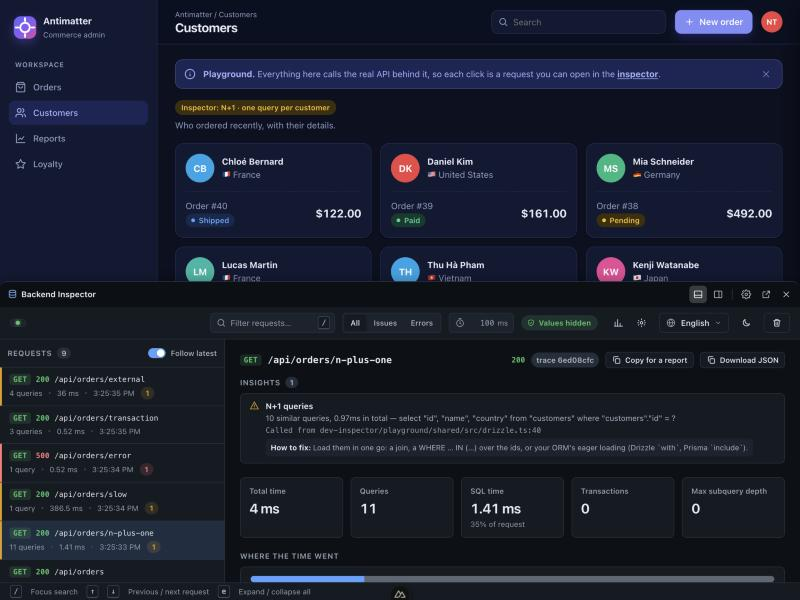
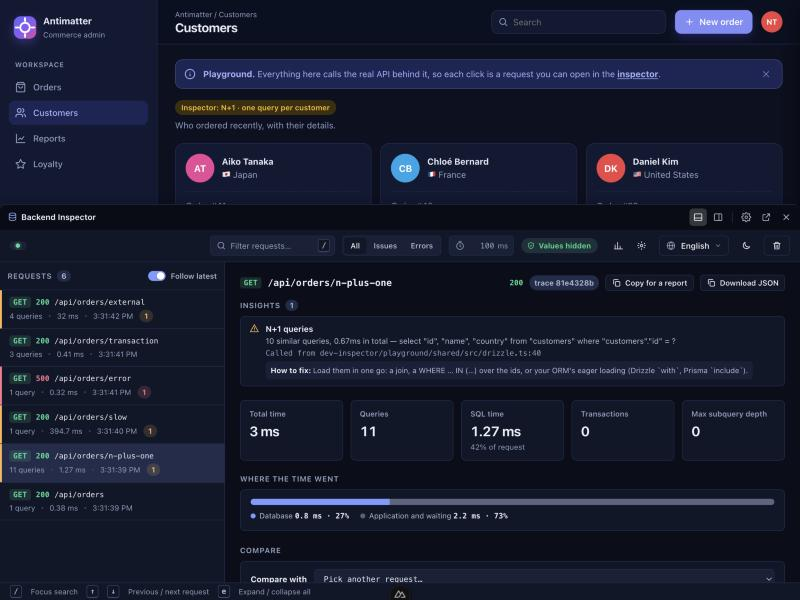
feat(ui): richer dark theme and matching recordings
A deeper navy base with clearer layers, a periwinkle accent and
brighter green, amber and rose status colours, in the page and in the
floating panel. The amber badge in the panel now has dark text.
Screenshots and recordings are recaptured with it.

diff --git a/packages/sql-dev-inspector/src/client/widget.ts b/packages/sql-dev-inspector/src/client/widget.ts
@@ -90,7 +90,7 @@ function loadSettings(win: Window): WidgetSettings {
 }
 
 const TOKENS_LIGHT = `--surface:#fff;--surface-2:#f1f4f8;--border:#dfe5ec;--text:#121821;--text-2:#4a5666;--text-3:#6e7a8a;--accent:#1f6feb;--err:#cf222e;--bar:#101820;--bar-text:#e9eef4;--shadow:0 10px 30px rgba(15,23,42,.28);`
-const TOKENS_DARK = `--surface:#151b23;--surface-2:#1d2631;--border:#2b3544;--text:#e6edf3;--text-2:#aab5c3;--text-3:#7d8896;--accent:#5aa2ff;--err:#ff6b6b;--bar:#0b1016;--bar-text:#e6edf3;--shadow:0 10px 30px rgba(0,0,0,.6);`
+const TOKENS_DARK = `--surface:#111729;--surface-2:#182038;--border:#222d4a;--text:#eef2fb;--text-2:#b6c1d9;--text-3:#92a0bd;--accent:#7c9cff;--err:#ff7a90;--bar:#080b16;--bar-text:#eef2fb;--shadow:0 10px 30px rgba(2,5,15,.65);`
 
 const STYLE = `
 :host { all: initial; position: fixed; top: 0; left: 0; width: 0; height: 0; display: block; z-index: 2147483000; }
@@ -106,10 +106,10 @@ const STYLE = `
 .fab { position: fixed; display: inline-flex; align-items: center; gap: 8px; height: 38px; padding: 0 14px 0 12px; border-radius: 999px; background: var(--bar); color: var(--bar-text); border: 1px solid rgba(255,255,255,.12); box-shadow: var(--shadow); font-weight: 650; font-size: 12.5px; user-select: none; touch-action: none; pointer-events: auto; transition: transform .12s ease, box-shadow .12s ease; }
 .fab:hover { transform: translateY(-1px); }
 .fab:active { transform: translateY(0); }
-.fab svg { color: #7fb3ff; }
+.fab svg { color: #8fabff; }
 .badge { min-width: 20px; height: 20px; padding: 0 6px; border-radius: 10px; background: rgba(255,255,255,.16); font-size: 11px; font-weight: 700; text-align: center; line-height: 20px; font-variant-numeric: tabular-nums; }
 .badge:empty { display: none; }
-.badge.warn { background: #d99a06; color: #fff; } .badge.err { background: #e5484d; color: #fff; }
+.badge.warn { background: #ffb84d; color: #1a1200; } .badge.err { background: #e5484d; color: #fff; }
 
 .panel { position: fixed; display: none; flex-direction: column; background: var(--surface); box-shadow: var(--shadow); pointer-events: auto; overflow: hidden; }
 .panel.open { display: flex; }
@@ -121,7 +121,7 @@ const STYLE = `
 .grip:hover { background: color-mix(in srgb, var(--accent) 40%, transparent); }
 .bar { display: flex; align-items: center; gap: 4px; height: 40px; padding: 0 8px 0 12px; background: var(--bar); color: var(--bar-text); flex: none; }
 .bar .title { font-weight: 650; font-size: 13px; margin-left: 2px; }
-.bar .logo { color: #7fb3ff; display: inline-flex; }
+.bar .logo { color: #8fabff; display: inline-flex; }
 .bar .spacer { flex: 1; }
 .tool { display: inline-flex; align-items: center; justify-content: center; width: 28px; height: 28px; border-radius: 6px; color: #b9c4d0; }
 .tool:hover { background: rgba(255,255,255,.12); color: #fff; }

diff --git a/packages/sql-dev-inspector/src/ui/styles.ts b/packages/sql-dev-inspector/src/ui/styles.ts
@@ -6,16 +6,17 @@
  */
 
 const DARK = `
-  --bg: #0d1117; --surface: #151b23; --surface-2: #1b232d; --surface-3: #242e3a;
-  --border: #283241; --border-strong: #3a4757;
-  --text: #e6edf3; --text-2: #aab5c3; --text-3: #929eac;
-  --accent: #5aa2ff; --accent-weak: rgba(90, 162, 255, .14); --accent-text: #0d1117;
-  --ok: #4ac26b; --ok-weak: rgba(74, 194, 107, .14);
-  --warn: #e3a008; --warn-weak: rgba(227, 160, 8, .14);
-  --err: #ff7b7b; --err-weak: rgba(255, 107, 107, .15);
-  --shadow: 0 8px 24px rgba(0, 0, 0, .45);
-  --syn-kw: #c792ea; --syn-str: #8bd49c; --syn-num: #f2a65e; --syn-id: #7cb7ff; --syn-fn: #e6c07b; --syn-com: #7d8896;
+  --bg: #0a0e1a; --surface: #111729; --surface-2: #182038; --surface-3: #212c4a;
+  --border: #222d4a; --border-strong: #364366;
+  --text: #eef2fb; --text-2: #b6c1d9; --text-3: #92a0bd;
+  --accent: #7c9cff; --accent-weak: rgba(124, 156, 255, .16); --accent-text: #0a0e1a;
+  --ok: #3ddc97; --ok-weak: rgba(61, 220, 151, .14);
+  --warn: #ffb84d; --warn-weak: rgba(255, 184, 77, .15);
+  --err: #ff7a90; --err-weak: rgba(255, 122, 144, .16);
+  --shadow: 0 10px 30px rgba(2, 5, 15, .6);
+  --syn-kw: #c4a1ff; --syn-str: #7ee2b8; --syn-num: #ffb36b; --syn-id: #8cc2ff; --syn-fn: #ffd479; --syn-com: #7a88a6;
 `
+
 
 export const STYLES = `
 :root {

diff --git a/packages/backend-dev-inspector/README.md b/packages/backend-dev-inspector/README.md
@@ -24,7 +24,7 @@ When a client calls your API, `backend-dev-inspector` shows **what the server di
 You see it in three places: **a tree in your terminal**, **a page** at `/__sql-inspector/`, and **a panel inside your app**. In production it does nothing.
 
 <p align="center">
-  <img alt="The Customers screen of the demo app, with the inspector's floating button showing 11 calls and a warning" src="https://raw.githubusercontent.com/githubthinnd/backend-dev-inspector/main/docs/media/nuxt-customers.jpg" width="49%">
+  <img alt="The Customers screen of the demo app, with the inspector's floating button and its count of warnings" src="https://raw.githubusercontent.com/githubthinnd/backend-dev-inspector/main/docs/media/nuxt-customers.jpg" width="49%">
   <img alt="The inspector panel docked at the bottom of the app: the N+1 warning first, with the line of code and how to fix it, then the totals and where the time went" src="https://raw.githubusercontent.com/githubthinnd/backend-dev-inspector/main/docs/media/inspector-n-plus-one.jpg" width="49%">
 </p>
 <p align="center">

diff --git a/README.md b/README.md
@@ -44,7 +44,7 @@ A slow endpoint is rarely one slow query. It is the same query run forty times, 
 - **Dev only**: nothing runs when `NODE_ENV=production`. Nothing is written to disk or sent anywhere unless you ask for it.
 
 <p align="center">
-  <img alt="The Customers screen of the demo app, with the inspector's floating button showing 11 calls and a warning" src="docs/media/nuxt-customers.jpg" width="49%">
+  <img alt="The Customers screen of the demo app, with the inspector's floating button and its count of warnings" src="docs/media/nuxt-customers.jpg" width="49%">
   <img alt="The inspector panel docked at the bottom of the app: the N+1 warning first, with the line of code and how to fix it, then the totals and where the time went" src="docs/media/inspector-n-plus-one.jpg" width="49%">
 </p>
 <p align="center">
